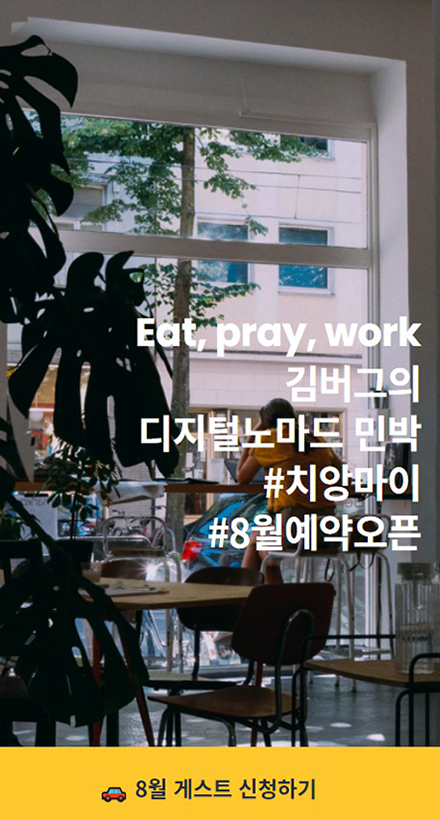
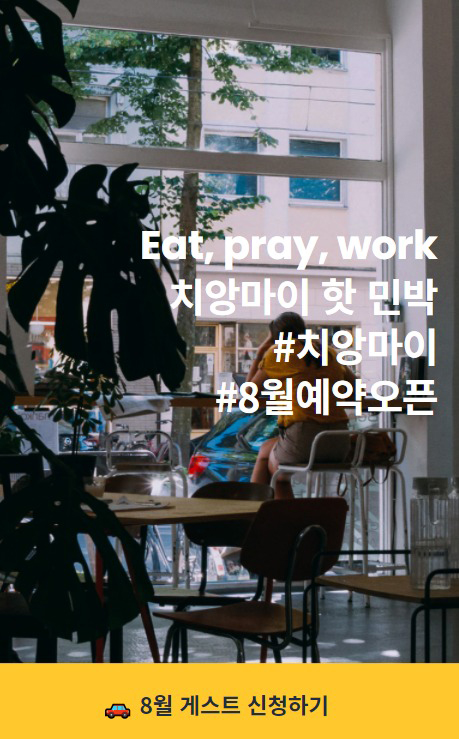
third commit

diff --git a/portfolio_style_Works.css b/portfolio_style_Works.css
@@ -44,10 +44,11 @@ html {
 .works_img_transi {
   margin: 0px auto;
   overflow: hidden;
+  border-radius: 24px;
 }
 .works_img_transi,
 .works_img {
-  transition: all 0.2s linear;
+  transition: all 1500ms linear;
 }
 .wokrs_img_transi:hover {
   transform: scale(1.4);
@@ -62,7 +63,7 @@ html {
 .works_img1:hover {
   opacity: 1;
   transition: opacity ease-out 1000ms;
-  transform: scale(1.3);
+  transform: scale(1.2);
 }
 
 /* 메뉴탭 풀 사이즈 */

diff --git a/portfolio.html b/portfolio.html
@@ -68,7 +68,7 @@
             </a>
         </h1>
         <div class="col-md-7" data-aos="fade-up" data-aos-duration="3000">
-            <img src="./introdution_img/fifa_card.png" alt="profile_img" width="500px" class="fadein_fifa_card" />
+            <img src="./introdution_img/fifa_card.png" alt="profile_img" width="500px" />
         </div>
     </div>
 

diff --git a/html.css_port/CSS/media_query_01.html b/html.css_port/CSS/media_query_01.html
@@ -22,8 +22,7 @@
     <section class="landing">
       <h1 class="landing-title">
         <strong lang="en">Eat, pray, work</strong>
-        김버그의<br />
-        디지털노마드 민박<br />
+        치앙마이 핫 민박<br />
         #치앙마이<br />
         #8월예약오픈
       </h1>

diff --git a/portfolio_style_Introdution.css b/portfolio_style_Introdution.css
@@ -15,10 +15,6 @@ html {
   padding-left: 20px;
   padding-top: 20px;
 }
-.fadein_fifa_card {
-  width: 250px;
-  height: 350px;
-}
 
 @media all and (min-width: 280px) and (max-width: 480px) {
 }

diff --git a/portfolio_style_Skill.css b/portfolio_style_Skill.css
@@ -461,5 +461,6 @@ html {
   }
   .skill_right_img {
     display: none;
+    opacity: 0;
   }
 }
